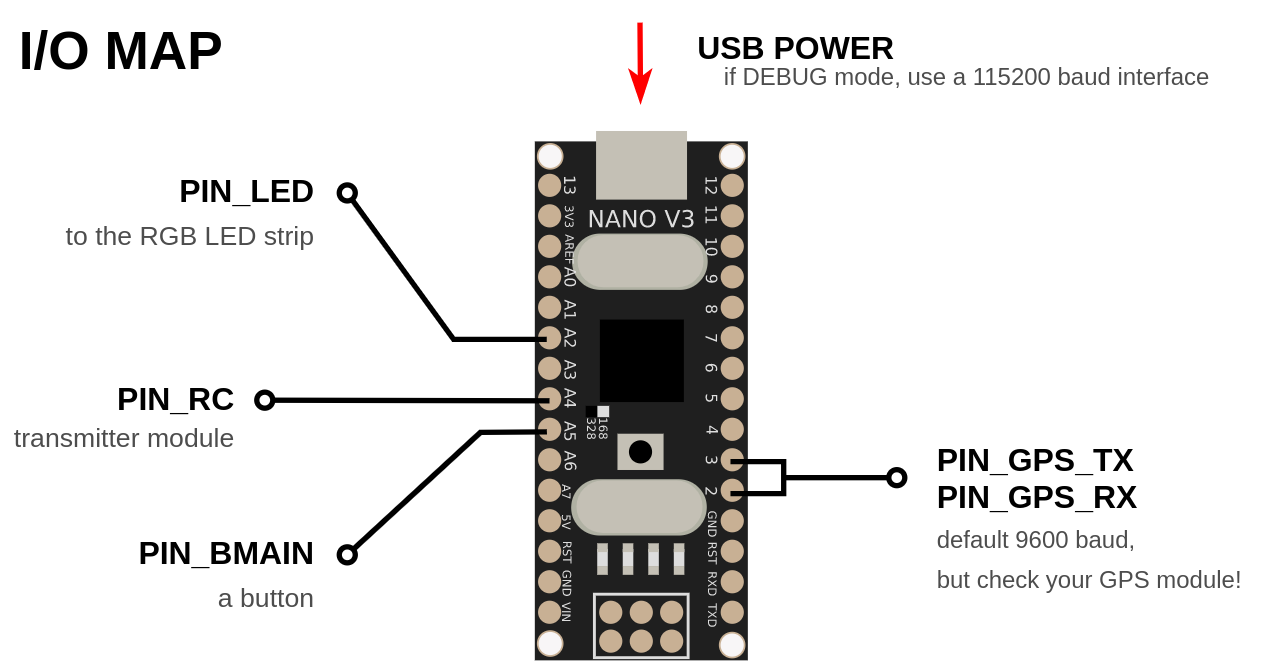
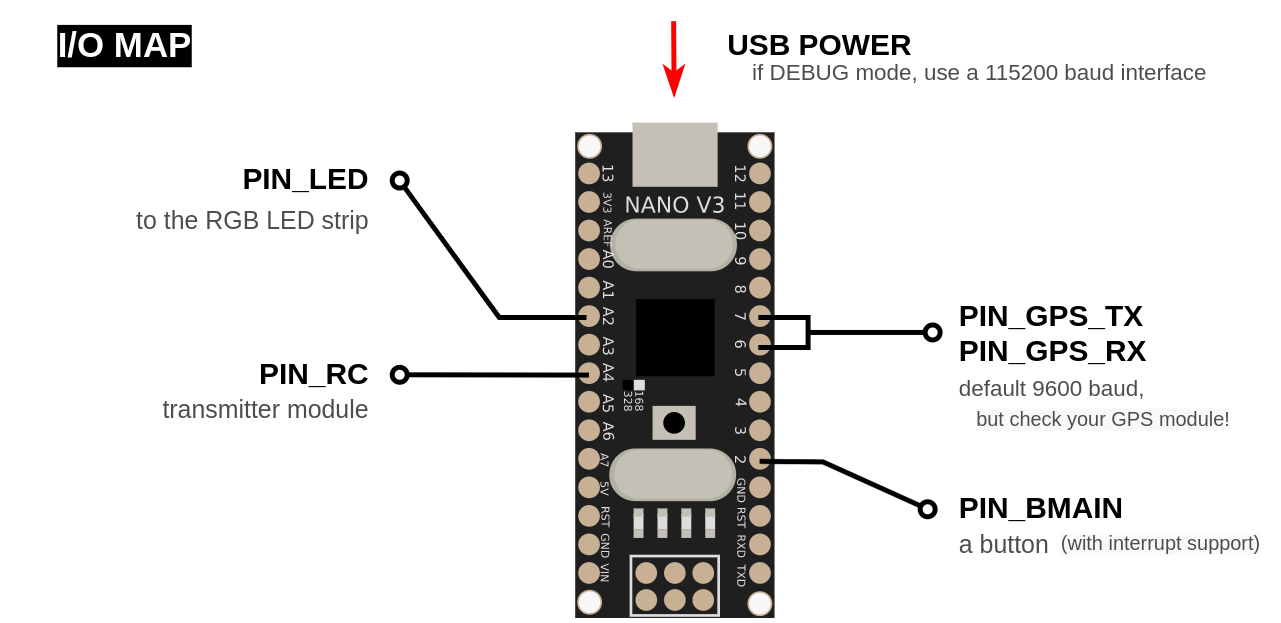
documentation (release)

diff --git a/README.md b/README.md
@@ -1,9 +1,9 @@
 <h1 align="center">gpgate</h1>
 <p align="center">aka <i>Global Positioning GATE</i> (remote controller)</p>
 
-This sketch implements a gate remote control system based on GPS position. I coded this back in 2020 to fritter away time during a COVID lockdown, but I think it is an idea worthy to be published, even if the project is not completed.
+This sketch implements a gate remote control system based on GPS position. I coded this back in 2020 to fritter away time during a COVID lockdown, but I think it is an idea worthy to be published.
 
-**Current development status**: **BETA** - The sketch works fine under real-life tests. Need to test more outside Debug Mode to be sure that there are no nasty bugs so far. However, there is the need to implement some other functions before the final release (see *Development TODO* list).
+**Current development status**: **BETA** - The sketch works fine under real-life tests. Need to test a bit more outside Debug Mode to be sure that there are no nasty bugs so far.
 
 <br>
 
@@ -31,7 +31,7 @@ The first value is just a string used as identifier (for debug). The second valu
 As for the **waypoints**, they are prompted too as an array of structured values. We are required to specify the latitude & longitude (first two double values). The third entry is (as unsigned int) the number of the gate, which is determined by the order specified in the array `gates[]` above). Finally, the fourth value is just a label for debug prints.
 
 ```cpp
-//  entry waypoint is { latitude, longitude, id, label }
+//  entry waypoint is { latitude, longitude, gate number, label }
 const waypoint wps[] = {
                  { 46.23212, 6.04516, 1, "gate1" },  // main entrance
                  { 46.23176, 6.04611, 2, "gate2" },  // exit
@@ -50,7 +50,7 @@ If you like, you can **associate more waypoints to each gate**. This might impro
 ![ex2](img/maps-sel2.png)
 The configuration would look like this:
 ```cpp
-//  entry waypoint is { latitude, longitude, id, label }
+//  entry waypoint is { latitude, longitude, gate number, label }
 const waypoint wps[] = {
                  { 46.23212, 6.04516, 1, "gate1" },  // main entrance
                  { 46.23175, 6.04617, 2, "gate2a" }, // exit
@@ -64,8 +64,8 @@ const waypoint wps[] = {
 
 Finally, the configuration file `mygates.h` has to be completed by configuring the **pulse length** of the signal and the **transmission protocol** (see rc-switch usage) ...
 ```cpp
-#define RF_PULSELEN 420  // pulse length [ms]
-#define RF_PROTOCOL  10  // trasmission protocol
+#define RC_PULSELEN 400  // pulse length [ms]
+#define RC_PROTOCOL  10  // trasmission protocol
 ```
 ... as well as the two size constants (required by my code)
 ```cpp
@@ -93,9 +93,11 @@ The LED color will inform you of the currently selected gate. Use a short keypre
 
 Hopefully, the GPS signal will be accurate most of the time - aka, the GPS is **fixed**. However, there there might be circumstances in which the GPS is **unfixed**. In this scenario, gpgate will keep the last gate selection (the first gate, if the system has just booted).
 
-There is a way to still use gpgate without the GPS fix: the **manual mode**. This mode will allow you to **choose a gate and keep it selected for 30 seconds**. After the time expires, gpgate will automatically revert to GPS fixed/unfixed mode. 
+There is a way to still use gpgate without the GPS fix: the **manual mode**. This mode will allow you to **choose a gate and keep it selected for 15 seconds**. After the time expires, gpgate will automatically revert to GPS fixed/unfixed mode. 
 
 You can enter manual mode by **keeping keypressed the button for 1 second**. Every long press of 1 second in manual mode will select the next gate (in the order of declaration). You should see the LED color change according to your selection. As usual, a short pressure of the button will send the RC signal to the manually selected gate. 
+
+If you keep the button keypressed for more than 5 seconds, the system enters **suspension mode**. Only the GPS module is powered, to keep the alignment, while LED & CPU are powered down. To resume the operative status, press again the button.
 
 <br>
 
@@ -110,14 +112,15 @@ The file `general.h` will include the **hardware configuration** of you Arduino 
 // ---------------
 //   INTERFACE
 // ---------------
-#define USB_BAUD 115200  // USB baud rate (DEBUG only)
-#define GPSBAUD    9600  // GPS module baud rate
+#define USB_BAUD 115200  // USB baud rate for config purpose
+#define GPS_BAUD   9600  // GPS module baud rate
 
-#define PIN_BMAIN   A5   //control button pin
-#define PIN_GPS_TX   2   //GPS tx-pin
-#define PIN_GPS_RX   3   //GPS rx-pin
-#define PIN_LED     A2   //LED clock contrl pin
-#define PIN_RF      A4   //trasmitter pin
+#define PIN_BMAIN    2   // control button pin
+//      ^^^^^   note:  check if this button can be used to wake up from sleep!
+#define PIN_GPS_TX   7   // GPS tx-pin
+#define PIN_GPS_RX   6   // GPS rx-pin
+#define PIN_LED     A2   // LED clock contrl pin
+#define PIN_RC      A4   // trasmitter pin
 
 ...
 ```
@@ -128,8 +131,9 @@ This file will also set all the properties and configuration of the gpgate logic
 Finally, we **require the following Arduino libraries** to compile the sketch:
 - rc-switch ([git](https://github.com/sui77/rc-switch))
 - TinyGPS++ ([git](https://github.com/mikalhart/TinyGPSPlus/))
-- FastLED ([git](https://github.com/FastLED/FastLED)) (if you use my animations module)
+- LowPower ([built-in](https://www.arduino.cc/reference/en/libraries/arduino-low-power/))
 - SoftwareSerial ([built-in](https://docs.arduino.cc/learn/built-in-libraries/software-serial))
+- FastLED ([git](https://github.com/FastLED/FastLED)) (if you use my animations module)
 
 You notice that there are many C++ files in the sketch folder, but the main one of course has the *.ino* extension: `gpgate.ino`. Open it with Arduino IDE, compile & upload to your Arduino device when everything is configured.
 
@@ -147,8 +151,11 @@ The minimal LED interface is given by the following functions:
 
 | Declaration     | Description |
 | ----------- | ----------- |
-| `void init_led()` | A function which initializes the LED, to be called in `setup()`.      |
+| `void setup_led()` | A function which initializes the LED, to be called in `setup()`.      |
 | `void led_set_color(color_t color)`   | A function which changes the current LED color. The color is specified as hex values. |
+| `void led_rc_signal()` | A function to set a LED action when a signal is sent to a gate (in my case I temporarily change a LED color to white). |
+| `void led_sleep_mode()` | A function to set the LED for sleep mode (I switch them off, in my case). |
+
 
 If the flag `USE_LED_ANIMATION` is defined in `general.h`, the Arduino sketch will operate the LED by calling a periodic update function to refresh the animation. In this case, it is necessary to provide two more functions:
 
@@ -159,11 +166,16 @@ If the flag `USE_LED_ANIMATION` is defined in `general.h`, the Arduino sketch wi
 
 Other properties like the `LED_TYPE` and `LED_NUMBER` can be defined in `led.cpp`, because they are not required to be available externally.
 
+
+
+<br>
+
 ## Develoment: TODO list
 
-**High priority**
-- use HDOP as a criteria for GPS fix control
-- implement a suspension/wake-up system to save energy
+**High priority** General bug test under real life circumstances. If you test yourself & find some bug, pleas open a Issue on GitHub.
 
-**Really extra**
+**Low priority**
+- use HDOP as a criteria for GPS fix control
+
+**If you would like to contribute: (open a Issue)**
 - solder the circuit on PCB and build a 3D printable case
